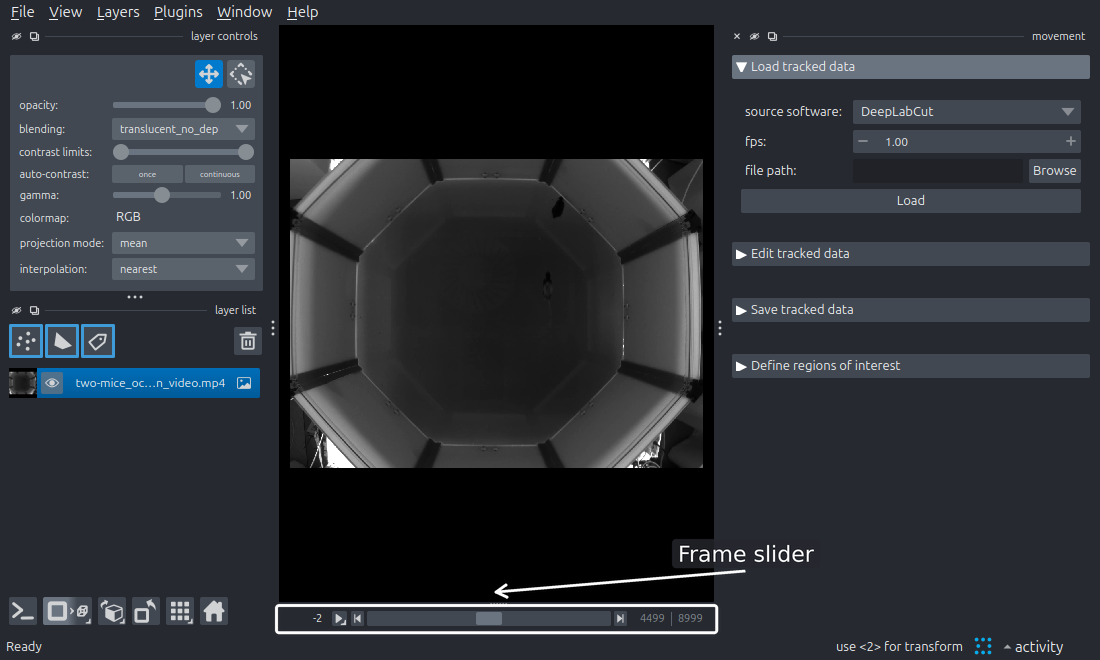
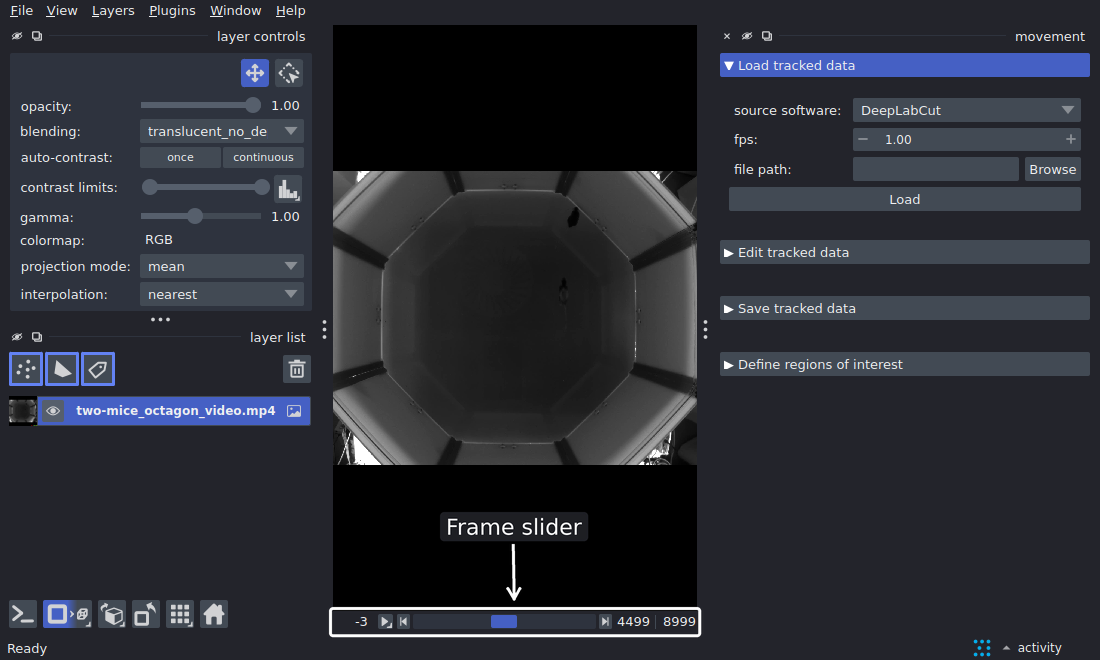
Place the frame slider label above the slider
Centre the label above the slider, with a short vertical arrow, instead
of shifting it to the right with a long, nearly horizontal arrow.
Regenerate the screenshot with napari 0.9.2.

Changed region(s): [[0.0, 0.0, 1.0, 0.9697], [0.0, 0.8788, 0.2164, 1.0], [0.7727, 0.9697, 0.9891, 1.0]]

diff --git a/docs/make_gui_screenshots.py b/docs/make_gui_screenshots.py
@@ -564,7 +564,7 @@ def video_slider(out: Path) -> Path:
     gui = GUI()
     gui.open_video(OCTAGON)
     gui.viewer.dims.set_current_step(0, 4499)
-    labels = [Label(gui.frame_slider, "Frame slider", side="above", shift=250)]
+    labels = [Label(gui.frame_slider, "Frame slider", side="above", gap=70)]
     return gui.save(out / "napari_video_slider.png", labels)
 
 
